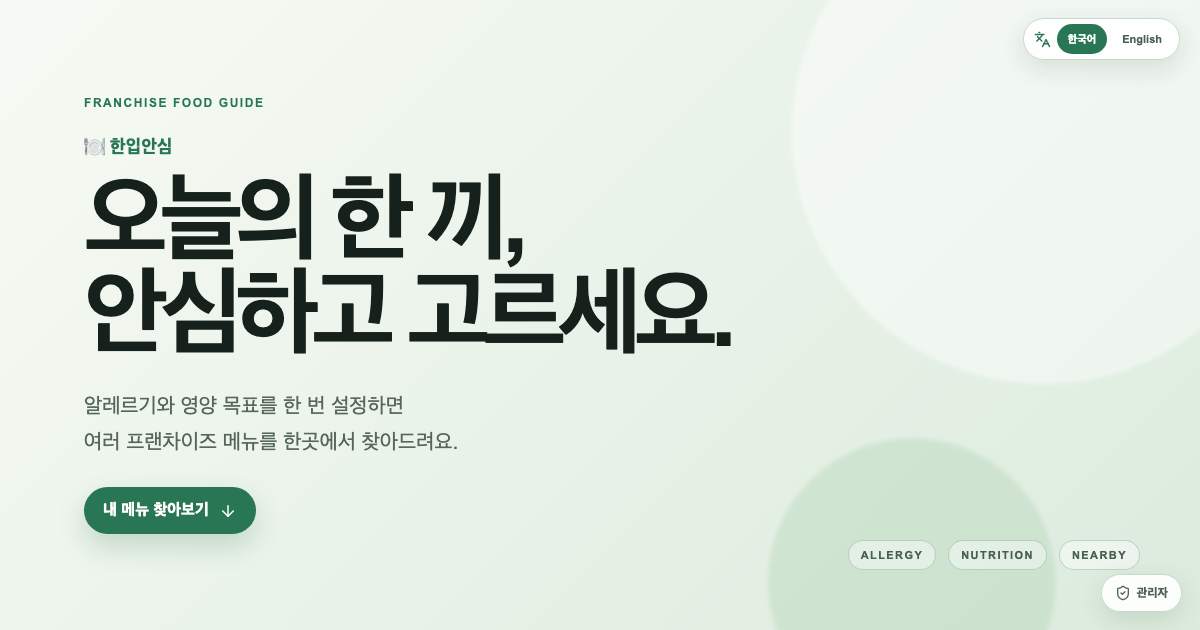
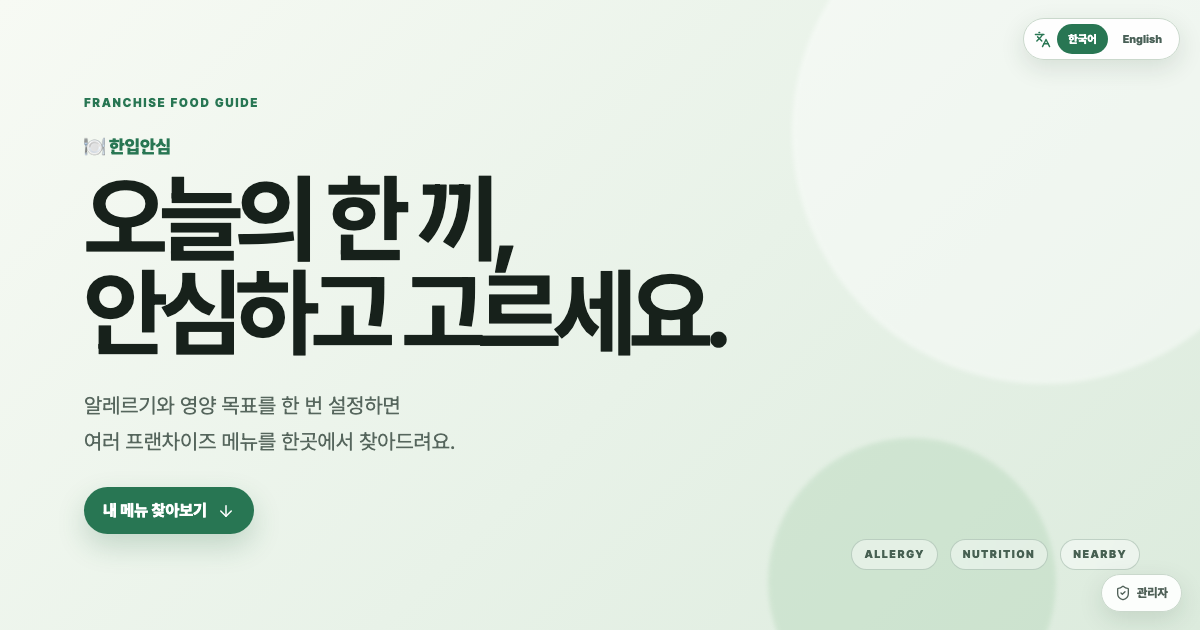
Apply Pretendard across the site

diff --git a/vercel-app/app/globals.css b/vercel-app/app/globals.css
@@ -77,3 +77,7 @@ html{scroll-behavior:smooth}.landing{position:relative;display:flex;min-height:1
 .language-switcher button.active{color:#fff;background:var(--green)}
 .language-switcher button:focus-visible{outline:3px solid #28765335;outline-offset:2px}
 @media(max-width:700px){.language-switcher{right:10px;top:10px;padding:4px 5px 4px 8px}.language-switcher button{height:29px;padding:0 9px;font-size:10px}}
+
+/* Pretendard is the shared typeface for the public and admin interfaces. */
+body{font-family:"Pretendard Variable",Pretendard,-apple-system,BlinkMacSystemFont,"Segoe UI","Noto Sans KR",sans-serif}
+textarea{font:inherit}

diff --git a/vercel-app/app/layout.tsx b/vercel-app/app/layout.tsx
@@ -1,4 +1,5 @@
 import type { Metadata } from "next";
+import "pretendard/dist/web/variable/pretendardvariable-dynamic-subset.css";
 import "./globals.css";
 
 export const metadata: Metadata = {
